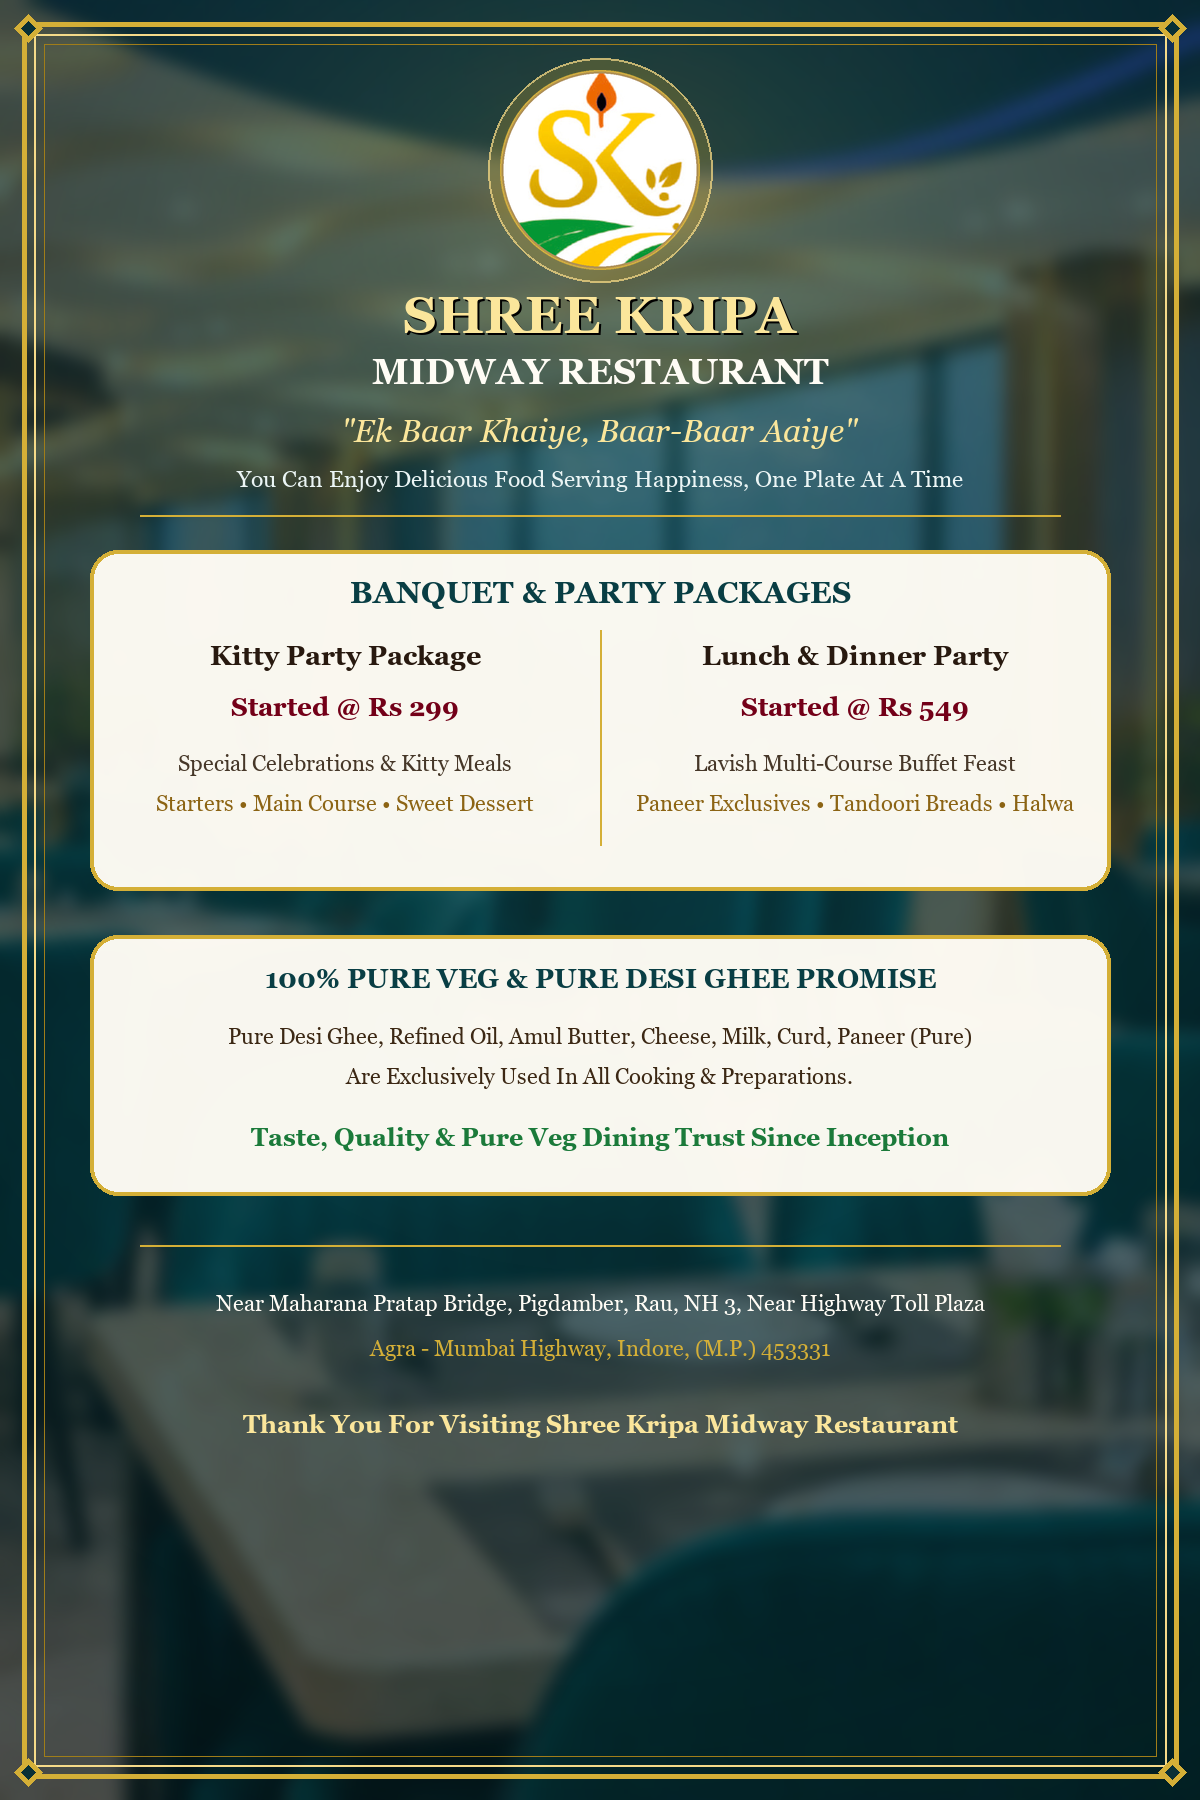
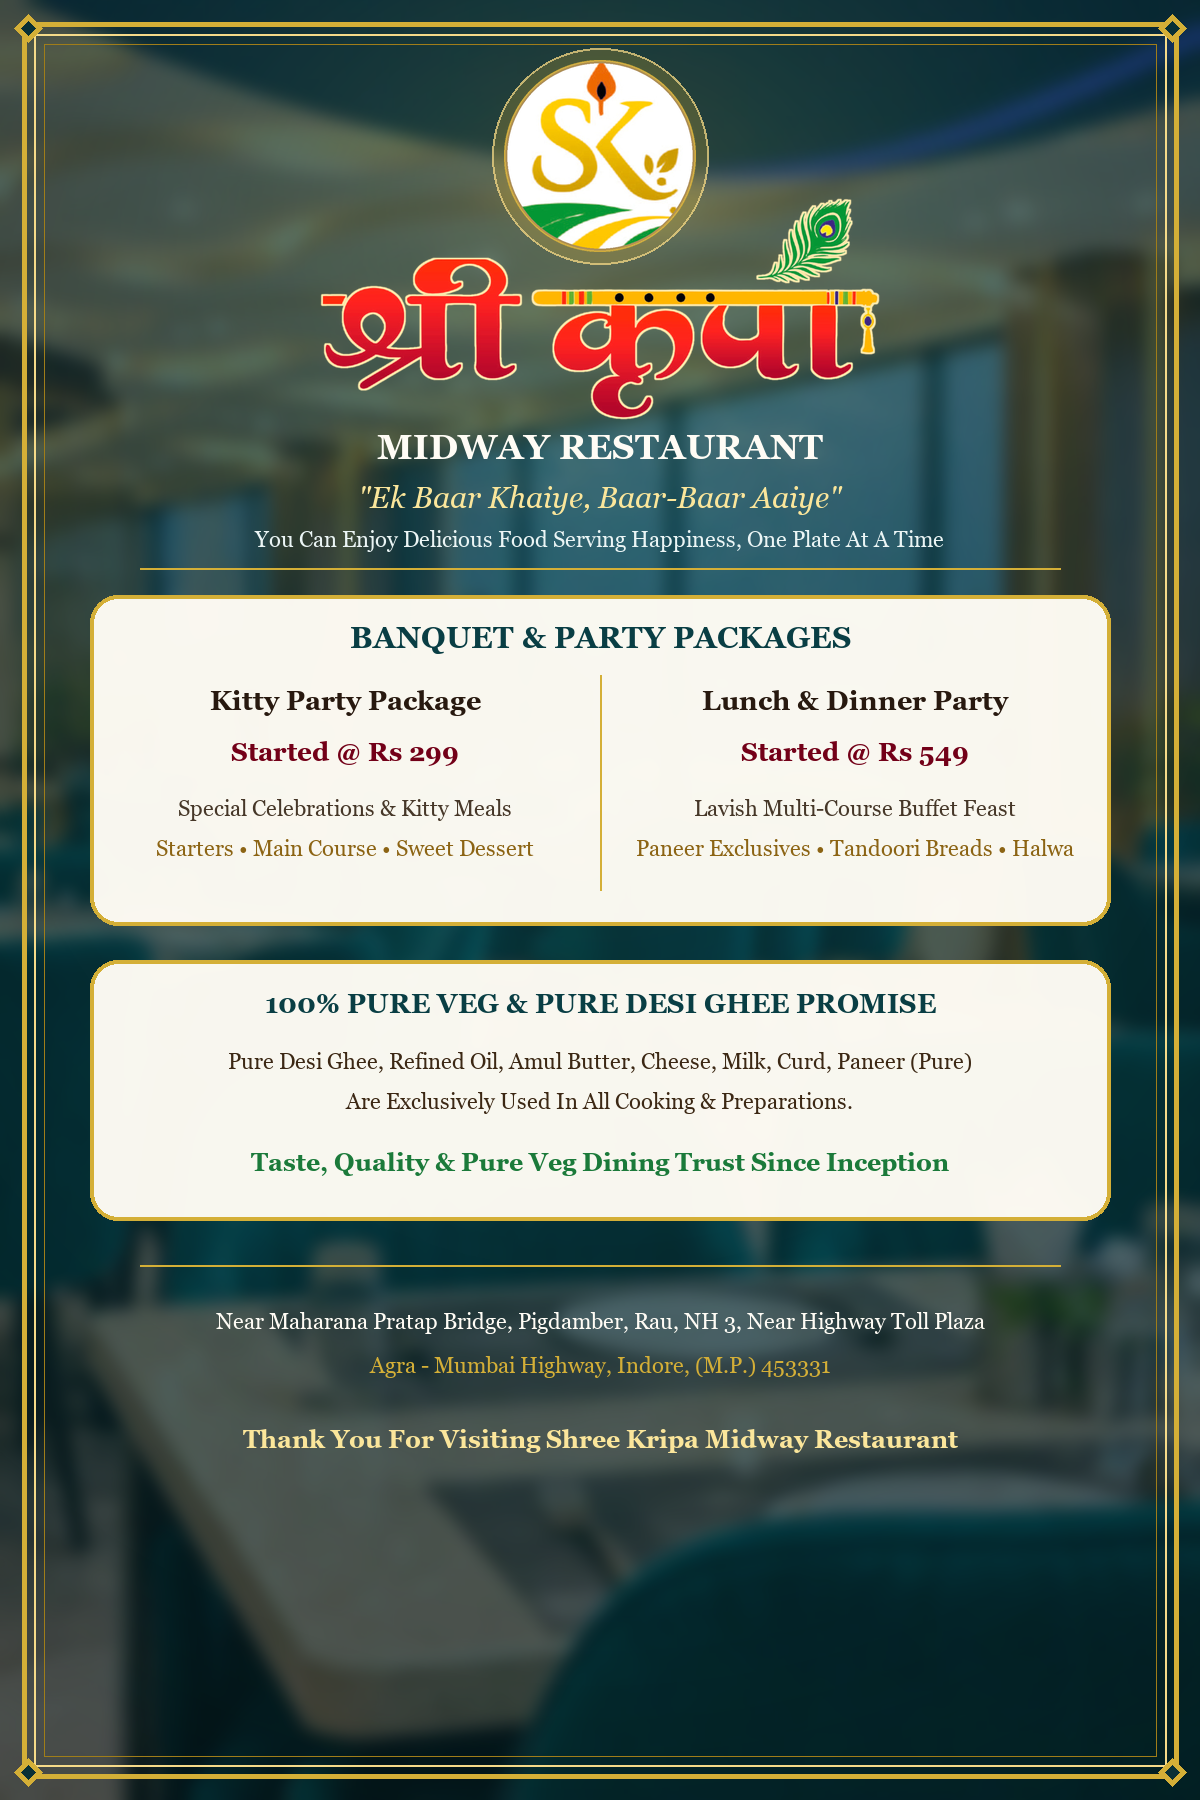
Use official stylized Hindi Shree Kripa Bansuri and Mor Pankh emblem across Standees and Landing Page

Changed region(s): [[0.0617, 0.0, 0.925, 0.6844], [0.185, 0.7156, 0.8325, 0.8089]]

diff --git a/index.html b/index.html
@@ -237,32 +237,21 @@
 
         .brand-title-wrap {
             position: relative;
-            display: inline-block;
-            margin-bottom: 2px;
-        }
-
-        .brand-title-hindi {
-            font-family: var(--font-hindi);
-            font-size: 42px;
-            line-height: 1.1;
-            font-weight: 800;
-            color: var(--gold-light);
-            text-shadow: 0 3px 8px rgba(0, 0, 0, 0.65);
-            letter-spacing: 0.5px;
-            display: inline-flex;
-            align-items: center;
+            display: flex;
             justify-content: center;
+            align-items: center;
+            width: 100%;
+            margin-top: -22px;
+            margin-bottom: 2px;
+            z-index: 3;
         }
 
-        .peacock-feather {
-            font-size: 26px;
-            margin-left: 6px;
-            filter: drop-shadow(0 2px 4px rgba(0, 0, 0, 0.5));
-            animation: gentleSway 3s ease-in-out infinite alternate;
-        }
-        @keyframes gentleSway {
-            0% { transform: rotate(-4deg); }
-            100% { transform: rotate(4deg); }
+        .brand-title-img {
+            width: 245px;
+            max-width: 84%;
+            height: auto;
+            display: block;
+            filter: drop-shadow(0 5px 12px rgba(0, 0, 0, 0.6));
         }
 
         .brand-subtitle {
@@ -1365,10 +1354,7 @@
             </div>
 
             <div class="brand-title-wrap">
-                <h1 class="brand-title-hindi" id="uiTitle">
-                    श्री कृपा
-                    <span class="peacock-feather" title="Krishna Mor Pankh">🪶</span>
-                </h1>
+                <img src="assets/shree_kripa_title.png" alt="श्री कृपा" class="brand-title-img" id="uiTitleImg">
             </div>
 
             <div class="brand-subtitle" id="uiSubname">MIDWAY RESTAURANT</div>
@@ -1643,7 +1629,6 @@
 
             if (cfg.restaurantName) {
                 document.getElementById('pageTitle').innerText = `${cfg.restaurantName} Midway Restaurant | 100% Pure Veg • Rau, Indore`;
-                document.getElementById('uiTitle').innerHTML = `${cfg.restaurantName} <span class="peacock-feather" title="Krishna Mor Pankh">🪶</span>`;
             }
             if (cfg.restaurantSubname) {
                 document.getElementById('uiSubname').innerText = cfg.restaurantSubname;

diff --git a/standee.html b/standee.html
@@ -176,17 +176,15 @@
             background: #ffffff;
         }
 
-        .brand-title-hindi {
-            font-family: 'Rozha One', 'Yatra One', serif;
-            font-size: 35px;
-            line-height: 1.1;
-            color: var(--gold-light);
-            text-shadow: 0 2px 8px rgba(0, 0, 0, 0.6);
-            margin-bottom: 1px;
-            display: flex;
-            align-items: center;
-            justify-content: center;
-            gap: 6px;
+        .brand-title-img {
+            width: 225px;
+            height: auto;
+            display: block;
+            margin-top: -18px;
+            margin-bottom: 2px;
+            position: relative;
+            z-index: 3;
+            filter: drop-shadow(0 4px 10px rgba(0, 0, 0, 0.55));
         }
 
         .brand-subtitle {
@@ -434,9 +432,7 @@
                 <div class="logo-rim">
                     <img src="logo_with_gold_rim.png" alt="श्री कृपा Logo">
                 </div>
-                <h1 class="brand-title-hindi">
-                    श्री कृपा <span style="font-size: 22px;">🪶</span>
-                </h1>
+                <img src="assets/shree_kripa_title.png" alt="श्री कृपा" class="brand-title-img">
                 <div class="brand-subtitle">MIDWAY RESTAURANT</div>
                 <div class="veg-pure-tag">
                     <span>🌿</span> 100% PURE VEG • PURE DESI GHEE <span>🌿</span>
@@ -488,9 +484,7 @@
                 <div class="logo-rim">
                     <img src="logo_with_gold_rim.png" alt="श्री कृपा Logo">
                 </div>
-                <h1 class="brand-title-hindi">
-                    श्री कृपा <span style="font-size: 22px;">🪶</span>
-                </h1>
+                <img src="assets/shree_kripa_title.png" alt="श्री कृपा" class="brand-title-img">
                 <div class="brand-subtitle">MIDWAY RESTAURANT</div>
                 <div class="veg-pure-tag">
                     <span>🌿</span> 100% PURE VEG • PURE DESI GHEE <span>🌿</span>

diff --git a/generate_qr.py b/generate_qr.py
@@ -157,6 +157,7 @@ def draw_rounded_card(draw, box, fill, outline, width=3, radius=28):
 def build_front_standee(config, output_filenames=["table_standee_printable.png", "standee_front_printable.png"]):
     """
     Generate 300 DPI Front Standee (Peacock Teal & Warm Golden Cove Interior Theme)
+    Uses official stylized Hindi 'श्री कृपा' calligraphy with Bansuri & Mor Pankh.
     No Table No, No Call Button.
     """
     w, h = 1200, 1800
@@ -165,16 +166,15 @@ def build_front_standee(config, output_filenames=["table_standee_printable.png",
     draw_luxury_borders_and_arches(draw, w, h)
 
     # Subtle top golden sun disc halo behind logo (inspired by the restaurant's yellow sun murals)
-    draw.ellipse([w // 2 - 118, 58, w // 2 + 118, 294], fill=(232, 185, 49, 55), outline=(245, 218, 137, 180), width=2)
+    draw.ellipse([w // 2 - 110, 48, w // 2 + 110, 268], fill=(232, 185, 49, 55), outline=(245, 218, 137, 180), width=2)
 
     # 1. Official Logo with Gold Rim
     logo_path = "logo_with_gold_rim.png"
     if os.path.exists(logo_path):
         logo = Image.open(logo_path).convert("RGBA")
-        logo = logo.resize((210, 210), Image.Resampling.LANCZOS)
-        canvas.paste(logo, (int((w - 210) / 2), 70), mask=logo)
+        logo = logo.resize((196, 196), Image.Resampling.LANCZOS)
+        canvas.paste(logo, (int((w - 196) / 2), 60), mask=logo)
 
-    font_brand = get_font(54, bold=True)
     font_title = get_font(36, bold=True)
     font_veg = get_font(22, bold=True)
     font_cta = get_font(38, bold=True)
@@ -183,30 +183,33 @@ def build_front_standee(config, output_filenames=["table_standee_printable.png",
     font_slogan = get_font(28, bold=True, italic=True)
     font_thanks = get_font(25, bold=True)
 
-    # Brand Title: SHREE KRIPA (Warm Luminous Gold)
-    brand_text = "SHREE KRIPA"
-    bbox = draw.textbbox((0, 0), brand_text, font=font_brand)
-    draw.text(((w - (bbox[2] - bbox[0])) / 2 + 2, 297), brand_text, fill=(0, 0, 0, 140), font=font_brand)
-    draw.text(((w - (bbox[2] - bbox[0])) / 2, 295), brand_text, fill=(251, 230, 155), font=font_brand)
+    # 2. Official Stylized Hindi Brand Title: श्री कृपा + Bansuri + Mor Pankh
+    title_img_path = "assets/shree_kripa_title.png"
+    if os.path.exists(title_img_path):
+        t_img = Image.open(title_img_path).convert("RGBA")
+        tw = 580
+        th = int(t_img.size[1] * (tw / t_img.size[0]))
+        t_img = t_img.resize((tw, th), Image.Resampling.LANCZOS)
+        canvas.paste(t_img, (int((w - tw) / 2), 202), mask=t_img)
 
     # Subtitle: MIDWAY RESTAURANT
     title_text = "MIDWAY RESTAURANT"
     bbox = draw.textbbox((0, 0), title_text, font=font_title)
-    draw.text(((w - (bbox[2] - bbox[0])) / 2, 362), title_text, fill=(255, 252, 245), font=font_title)
+    draw.text(((w - (bbox[2] - bbox[0])) / 2, 438), title_text, fill=(255, 252, 245), font=font_title)
 
     # 100% Pure Veg Pill Badge
     pill_w, pill_h = 520, 44
     pill_x = (w - pill_w) // 2
-    pill_y = 418
+    pill_y = 492
     draw_rounded_card(draw, [pill_x, pill_y, pill_x + pill_w, pill_y + pill_h], fill=(12, 85, 50, 230), outline=(212, 175, 55), width=2, radius=22)
     veg_text = "100% PURE VEG  •  PURE DESI GHEE"
     bbox = draw.textbbox((0, 0), veg_text, font=font_veg)
     draw.text(((w - (bbox[2] - bbox[0])) / 2, pill_y + 9), veg_text, fill=(255, 255, 255), font=font_veg)
 
     # Center Luxury Cream & Gold Arch Panel for QR Code
-    panel_w, panel_h = 820, 760
+    panel_w, panel_h = 820, 730
     panel_x = (w - panel_w) // 2
-    panel_y = 490
+    panel_y = 556
     draw_rounded_card(
         draw,
         [panel_x, panel_y, panel_x + panel_w, panel_y + panel_h],
@@ -227,30 +230,30 @@ def build_front_standee(config, output_filenames=["table_standee_printable.png",
     # Call to action inside panel: SCAN FOR DIGITAL MENU
     cta_text = "SCAN FOR DIGITAL MENU"
     bbox = draw.textbbox((0, 0), cta_text, font=font_cta)
-    draw.text(((w - (bbox[2] - bbox[0])) / 2, panel_y + 28), cta_text, fill=(9, 62, 68), font=font_cta)
+    draw.text(((w - (bbox[2] - bbox[0])) / 2, panel_y + 24), cta_text, fill=(9, 62, 68), font=font_cta)
 
     sub_cta = "Explore 170+ Dishes  •  Party Packages  •  Instant Menu"
     bbox = draw.textbbox((0, 0), sub_cta, font=font_meta)
-    draw.text(((w - (bbox[2] - bbox[0])) / 2, panel_y + 82), sub_cta, fill=(140, 100, 20), font=font_meta)
+    draw.text(((w - (bbox[2] - bbox[0])) / 2, panel_y + 76), sub_cta, fill=(140, 100, 20), font=font_meta)
 
     # QR Code Box
     qr_url = config.get("landingPageUrl", "https://hospitalityqr.github.io/Shree-Kripa-Midway-Restaurant/")
     qr_img = generate_styled_qr(qr_url, box_size=15, border=2, fill_color=(7, 46, 52))
-    qr_size = 540
+    qr_size = 520
     qr_img = qr_img.resize((qr_size, qr_size), Image.Resampling.LANCZOS)
 
     box_x = int((w - qr_size - 36) / 2)
-    box_y = panel_y + 130
+    box_y = panel_y + 122
     draw_rounded_card(draw, [box_x, box_y, box_x + qr_size + 36, box_y + qr_size + 36], fill=(255, 255, 255), outline=(212, 175, 55), width=3, radius=18)
     canvas.paste(qr_img, (box_x + 18, box_y + 18))
 
     # Purity Guarantee Card below QR Panel (NO TABLE NO)
-    pledge_y = panel_y + panel_h + 30
+    pledge_y = panel_y + panel_h + 24
     pledge_w = 980
     pledge_x = (w - pledge_w) // 2
     draw_rounded_card(
         draw,
-        [pledge_x, pledge_y, pledge_x + pledge_w, pledge_y + 115],
+        [pledge_x, pledge_y, pledge_x + pledge_w, pledge_y + 110],
         fill=(6, 38, 43, 225),
         outline=(212, 175, 55),
         width=2,
@@ -259,14 +262,14 @@ def build_front_standee(config, output_filenames=["table_standee_printable.png",
 
     pledge_text = "Pure Desi Ghee, Amul Butter & Pure Paneer Used In Cooking"
     bbox = draw.textbbox((0, 0), pledge_text, font=font_sub)
-    draw.text(((w - (bbox[2] - bbox[0])) / 2, pledge_y + 20), pledge_text, fill=(251, 230, 155), font=font_sub)
+    draw.text(((w - (bbox[2] - bbox[0])) / 2, pledge_y + 18), pledge_text, fill=(251, 230, 155), font=font_sub)
 
     prep_text = "Please Allow Us 20 Min Time For Fresh Order Preparation"
     bbox = draw.textbbox((0, 0), prep_text, font=font_meta)
-    draw.text(((w - (bbox[2] - bbox[0])) / 2, pledge_y + 64), prep_text, fill=(235, 245, 245), font=font_meta)
+    draw.text(((w - (bbox[2] - bbox[0])) / 2, pledge_y + 62), prep_text, fill=(235, 245, 245), font=font_meta)
 
     # Address & Highway Location (NO CALL BUTTON)
-    footer_y = pledge_y + 145
+    footer_y = pledge_y + 132
     addr_1 = "Near Maharana Pratap Bridge, Pigdamber, Rau, NH 3, Indore"
     addr_2 = "Agra - Mumbai Highway  •  Near Highway Toll Plaza"
 
@@ -274,16 +277,16 @@ def build_front_standee(config, output_filenames=["table_standee_printable.png",
     draw.text(((w - (bbox[2] - bbox[0])) / 2, footer_y), addr_1, fill=(255, 252, 245), font=font_meta)
 
     bbox = draw.textbbox((0, 0), addr_2, font=font_meta)
-    draw.text(((w - (bbox[2] - bbox[0])) / 2, footer_y + 34), addr_2, fill=(212, 175, 55), font=font_meta)
+    draw.text(((w - (bbox[2] - bbox[0])) / 2, footer_y + 32), addr_2, fill=(212, 175, 55), font=font_meta)
 
     # Devotional Slogan & Hospitality Closing
     slogan_text = "\"Ek Baar Khaiye, Baar-Baar Aaiye\""
     bbox = draw.textbbox((0, 0), slogan_text, font=font_slogan)
-    draw.text(((w - (bbox[2] - bbox[0])) / 2, footer_y + 82), slogan_text, fill=(251, 230, 155), font=font_slogan)
+    draw.text(((w - (bbox[2] - bbox[0])) / 2, footer_y + 74), slogan_text, fill=(251, 230, 155), font=font_slogan)
 
     thanks_str = "Thank You For Visiting Shree Kripa Midway Restaurant"
     bbox = draw.textbbox((0, 0), thanks_str, font=font_thanks)
-    draw.text(((w - (bbox[2] - bbox[0])) / 2, footer_y + 130), thanks_str, fill=(255, 255, 255), font=font_thanks)
+    draw.text(((w - (bbox[2] - bbox[0])) / 2, footer_y + 118), thanks_str, fill=(255, 255, 255), font=font_thanks)
 
     for fn in output_filenames:
         canvas.save(fn, quality=95, dpi=(300, 300))
@@ -292,6 +295,7 @@ def build_front_standee(config, output_filenames=["table_standee_printable.png",
 def build_back_standee(config, output_filename="standee_back_printable.png"):
     """
     Generate 300 DPI Back Standee (Peacock Teal & Golden Cove Interior Theme)
+    Uses official stylized Hindi 'श्री कृपा' calligraphy with Bansuri & Mor Pankh.
     Party Packages, Purity Promise, Slogans, Location.
     """
     w, h = 1200, 1800
@@ -300,18 +304,17 @@ def build_back_standee(config, output_filename="standee_back_printable.png"):
     draw_luxury_borders_and_arches(draw, w, h)
 
     # Top golden sun disc halo behind logo
-    draw.ellipse([w // 2 - 112, 58, w // 2 + 112, 282], fill=(232, 185, 49, 55), outline=(245, 218, 137, 180), width=2)
+    draw.ellipse([w // 2 - 108, 48, w // 2 + 108, 264], fill=(232, 185, 49, 55), outline=(245, 218, 137, 180), width=2)
 
     # 1. Logo
     logo_path = "logo_with_gold_rim.png"
     if os.path.exists(logo_path):
-        logo = Image.open(logo_path).convert("RGBA").resize((200, 200), Image.Resampling.LANCZOS)
-        canvas.paste(logo, (int((w - 200) / 2), 70), mask=logo)
+        logo = Image.open(logo_path).convert("RGBA").resize((192, 192), Image.Resampling.LANCZOS)
+        canvas.paste(logo, (int((w - 192) / 2), 60), mask=logo)
 
-    font_brand = get_font(52, bold=True)
-    font_title = get_font(36, bold=True)
-    font_slogan = get_font(32, bold=True, italic=True)
-    font_sub = get_font(23, bold=False)
+    font_title = get_font(35, bold=True)
+    font_slogan = get_font(30, bold=True, italic=True)
+    font_sub = get_font(22, bold=False)
     font_pkg_title = get_font(30, bold=True)
     font_pkg_name = get_font(27, bold=True)
     font_pkg_price = get_font(26, bold=True)
@@ -319,31 +322,34 @@ def build_back_standee(config, output_filename="standee_back_printable.png"):
     font_trust = get_font(25, bold=True)
     font_thanks = get_font(25, bold=True)
 
-    # Brand Title: SHREE KRIPA
-    brand_text = "SHREE KRIPA"
-    bbox = draw.textbbox((0, 0), brand_text, font=font_brand)
-    draw.text(((w - (bbox[2] - bbox[0])) / 2 + 2, 287), brand_text, fill=(0, 0, 0, 140), font=font_brand)
-    draw.text(((w - (bbox[2] - bbox[0])) / 2, 285), brand_text, fill=(251, 230, 155), font=font_brand)
+    # 2. Official Stylized Hindi Brand Title: श्री कृपा + Bansuri + Mor Pankh
+    title_img_path = "assets/shree_kripa_title.png"
+    if os.path.exists(title_img_path):
+        t_img = Image.open(title_img_path).convert("RGBA")
+        tw = 560
+        th = int(t_img.size[1] * (tw / t_img.size[0]))
+        t_img = t_img.resize((tw, th), Image.Resampling.LANCZOS)
+        canvas.paste(t_img, (int((w - tw) / 2), 198), mask=t_img)
 
     title_text = "MIDWAY RESTAURANT"
     bbox = draw.textbbox((0, 0), title_text, font=font_title)
-    draw.text(((w - (bbox[2] - bbox[0])) / 2, 350), title_text, fill=(255, 252, 245), font=font_title)
+    draw.text(((w - (bbox[2] - bbox[0])) / 2, 426), title_text, fill=(255, 252, 245), font=font_title)
 
     # Signature Slogans
     slogan_hi = "\"Ek Baar Khaiye, Baar-Baar Aaiye\""
     bbox = draw.textbbox((0, 0), slogan_hi, font=font_slogan)
-    draw.text(((w - (bbox[2] - bbox[0])) / 2, 412), slogan_hi, fill=(251, 230, 155), font=font_slogan)
+    draw.text(((w - (bbox[2] - bbox[0])) / 2, 480), slogan_hi, fill=(251, 230, 155), font=font_slogan)
 
     slogan_en = "You Can Enjoy Delicious Food Serving Happiness, One Plate At A Time"
     bbox = draw.textbbox((0, 0), slogan_en, font=font_sub)
-    draw.text(((w - (bbox[2] - bbox[0])) / 2, 465), slogan_en, fill=(235, 245, 245), font=font_sub)
+    draw.text(((w - (bbox[2] - bbox[0])) / 2, 526), slogan_en, fill=(235, 245, 245), font=font_sub)
 
-    draw.line([140, 515, w - 140, 515], fill=(212, 175, 55), width=2)
+    draw.line([140, 568, w - 140, 568], fill=(212, 175, 55), width=2)
 
-    # 2. Grand Party Packages Card (Warm Ivory & Gold Arch Panel)
-    card_y = 550
+    # 3. Grand Party Packages Card (Warm Ivory & Gold Arch Panel)
+    card_y = 595
     card_w = 1020
-    card_h = 340
+    card_h = 330
     card_x = (w - card_w) // 2
 
     draw_rounded_card(draw, [card_x, card_y, card_x + card_w, card_y + card_h], fill=(255, 252, 244, 248), outline=(212, 175, 55), width=4, radius=28)
@@ -393,7 +399,7 @@ def build_back_standee(config, output_filename="standee_back_printable.png"):
     draw.text((card_x + col_w + (col_w - (bbox[2] - bbox[0])) / 2, card_y + 240), p2_d2, fill=(140, 100, 20), font=font_meta)
 
     # 3. 100% Pure Desi Ghee Purity Promise Card
-    pledge_y = 935
+    pledge_y = 960
     pledge_h = 260
     draw_rounded_card(draw, [card_x, pledge_y, card_x + card_w, pledge_y + pledge_h], fill=(255, 252, 244, 248), outline=(212, 175, 55), width=4, radius=28)
 
@@ -414,20 +420,20 @@ def build_back_standee(config, output_filename="standee_back_printable.png"):
     draw.text((card_x + (card_w - (bbox[2] - bbox[0])) / 2, pledge_y + 188), p_trust, fill=(27, 122, 58), font=font_trust)
 
     # 4. Location & Hospitality Footer
-    draw.line([140, 1245, w - 140, 1245], fill=(212, 175, 55), width=2)
+    draw.line([140, 1265, w - 140, 1265], fill=(212, 175, 55), width=2)
 
     addr_1 = "Near Maharana Pratap Bridge, Pigdamber, Rau, NH 3, Near Highway Toll Plaza"
     addr_2 = "Agra - Mumbai Highway, Indore, (M.P.) 453331"
 
     bbox = draw.textbbox((0, 0), addr_1, font=font_meta)
-    draw.text(((w - (bbox[2] - bbox[0])) / 2, 1290), addr_1, fill=(255, 252, 245), font=font_meta)
+    draw.text(((w - (bbox[2] - bbox[0])) / 2, 1308), addr_1, fill=(255, 252, 245), font=font_meta)
 
     bbox = draw.textbbox((0, 0), addr_2, font=font_meta)
-    draw.text(((w - (bbox[2] - bbox[0])) / 2, 1335), addr_2, fill=(212, 175, 55), font=font_meta)
+    draw.text(((w - (bbox[2] - bbox[0])) / 2, 1352), addr_2, fill=(212, 175, 55), font=font_meta)
 
     thanks_str = "Thank You For Visiting Shree Kripa Midway Restaurant"
     bbox = draw.textbbox((0, 0), thanks_str, font=font_thanks)
-    draw.text(((w - (bbox[2] - bbox[0])) / 2, 1410), thanks_str, fill=(251, 230, 155), font=font_thanks)
+    draw.text(((w - (bbox[2] - bbox[0])) / 2, 1425), thanks_str, fill=(251, 230, 155), font=font_thanks)
 
     canvas.save(output_filename, quality=95, dpi=(300, 300))
     print(f"[OK] Generated {output_filename} (300 DPI)")
